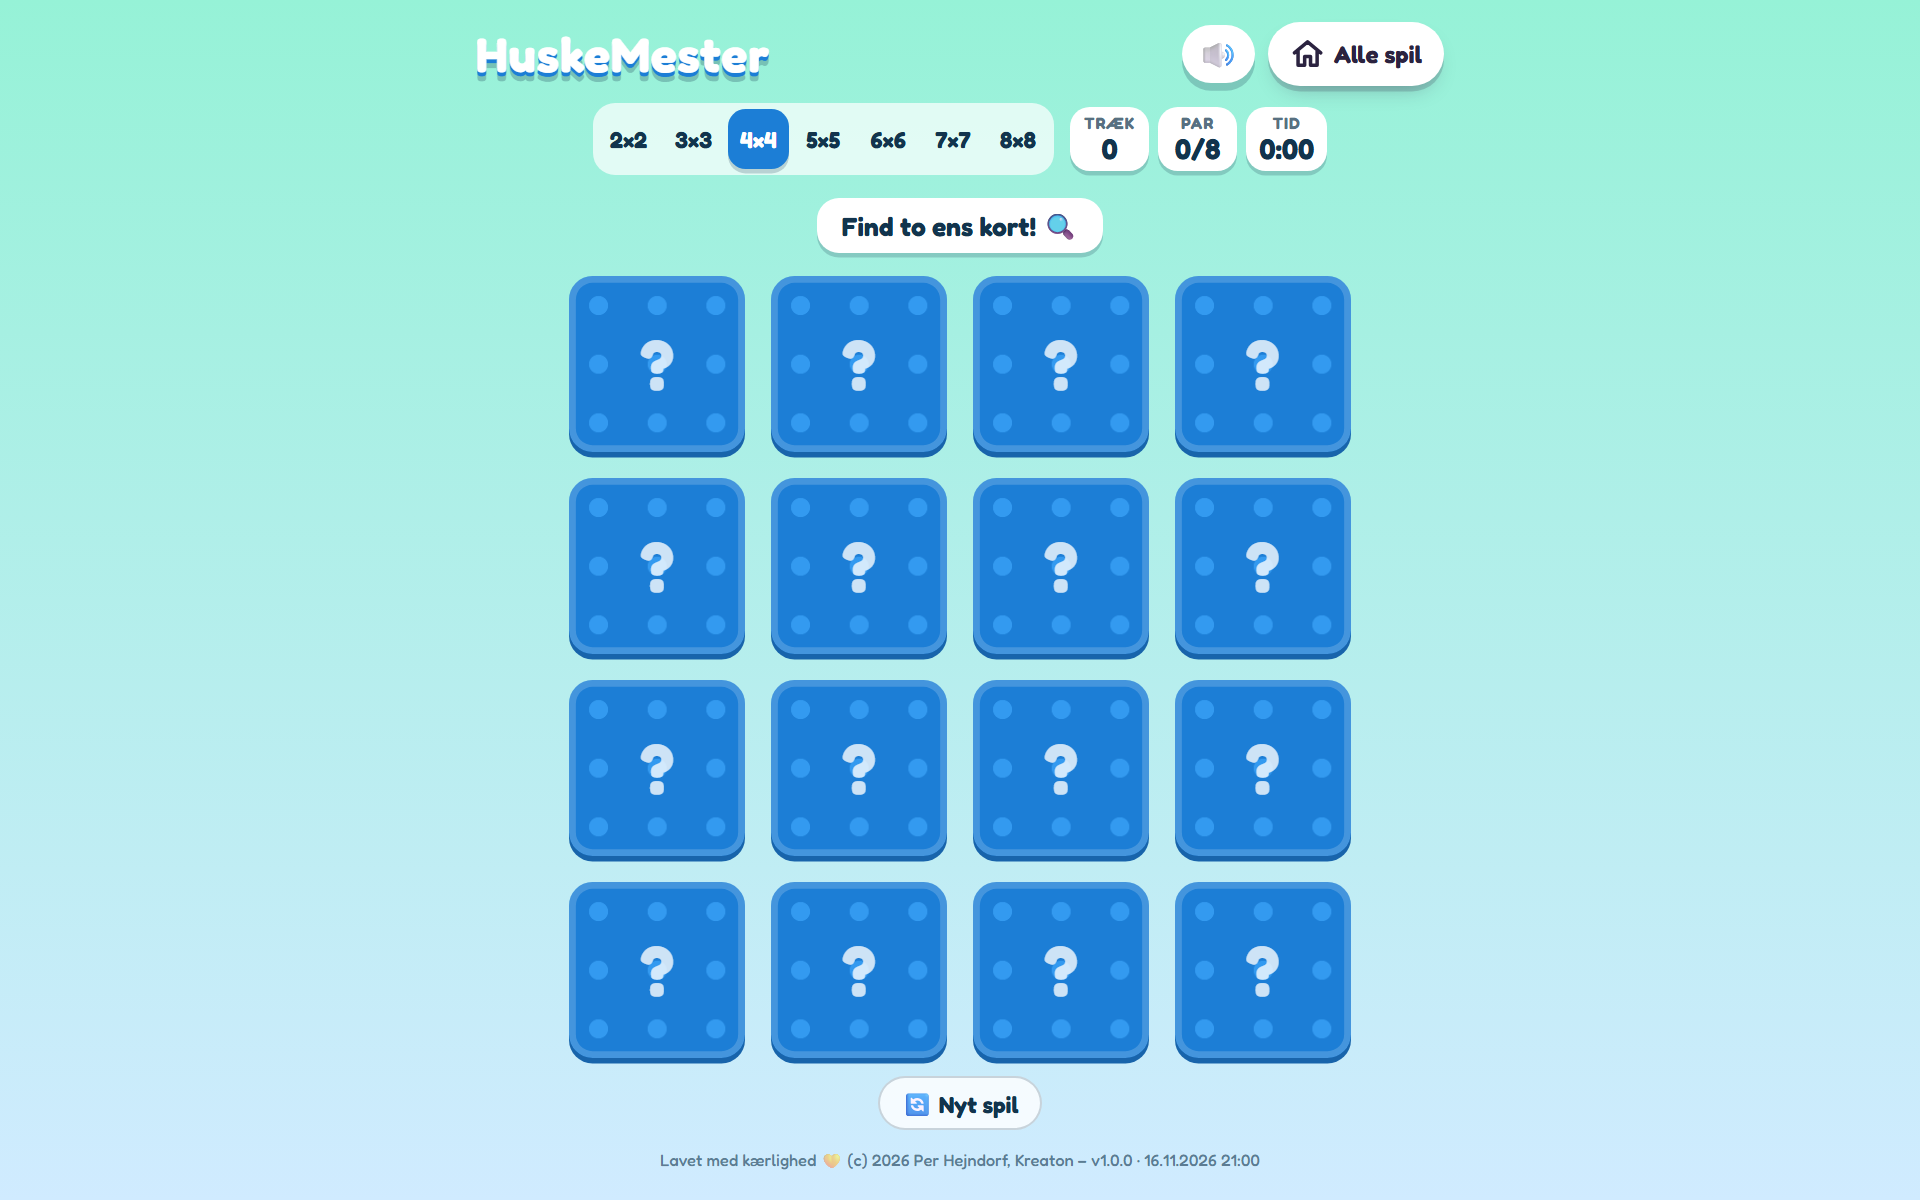
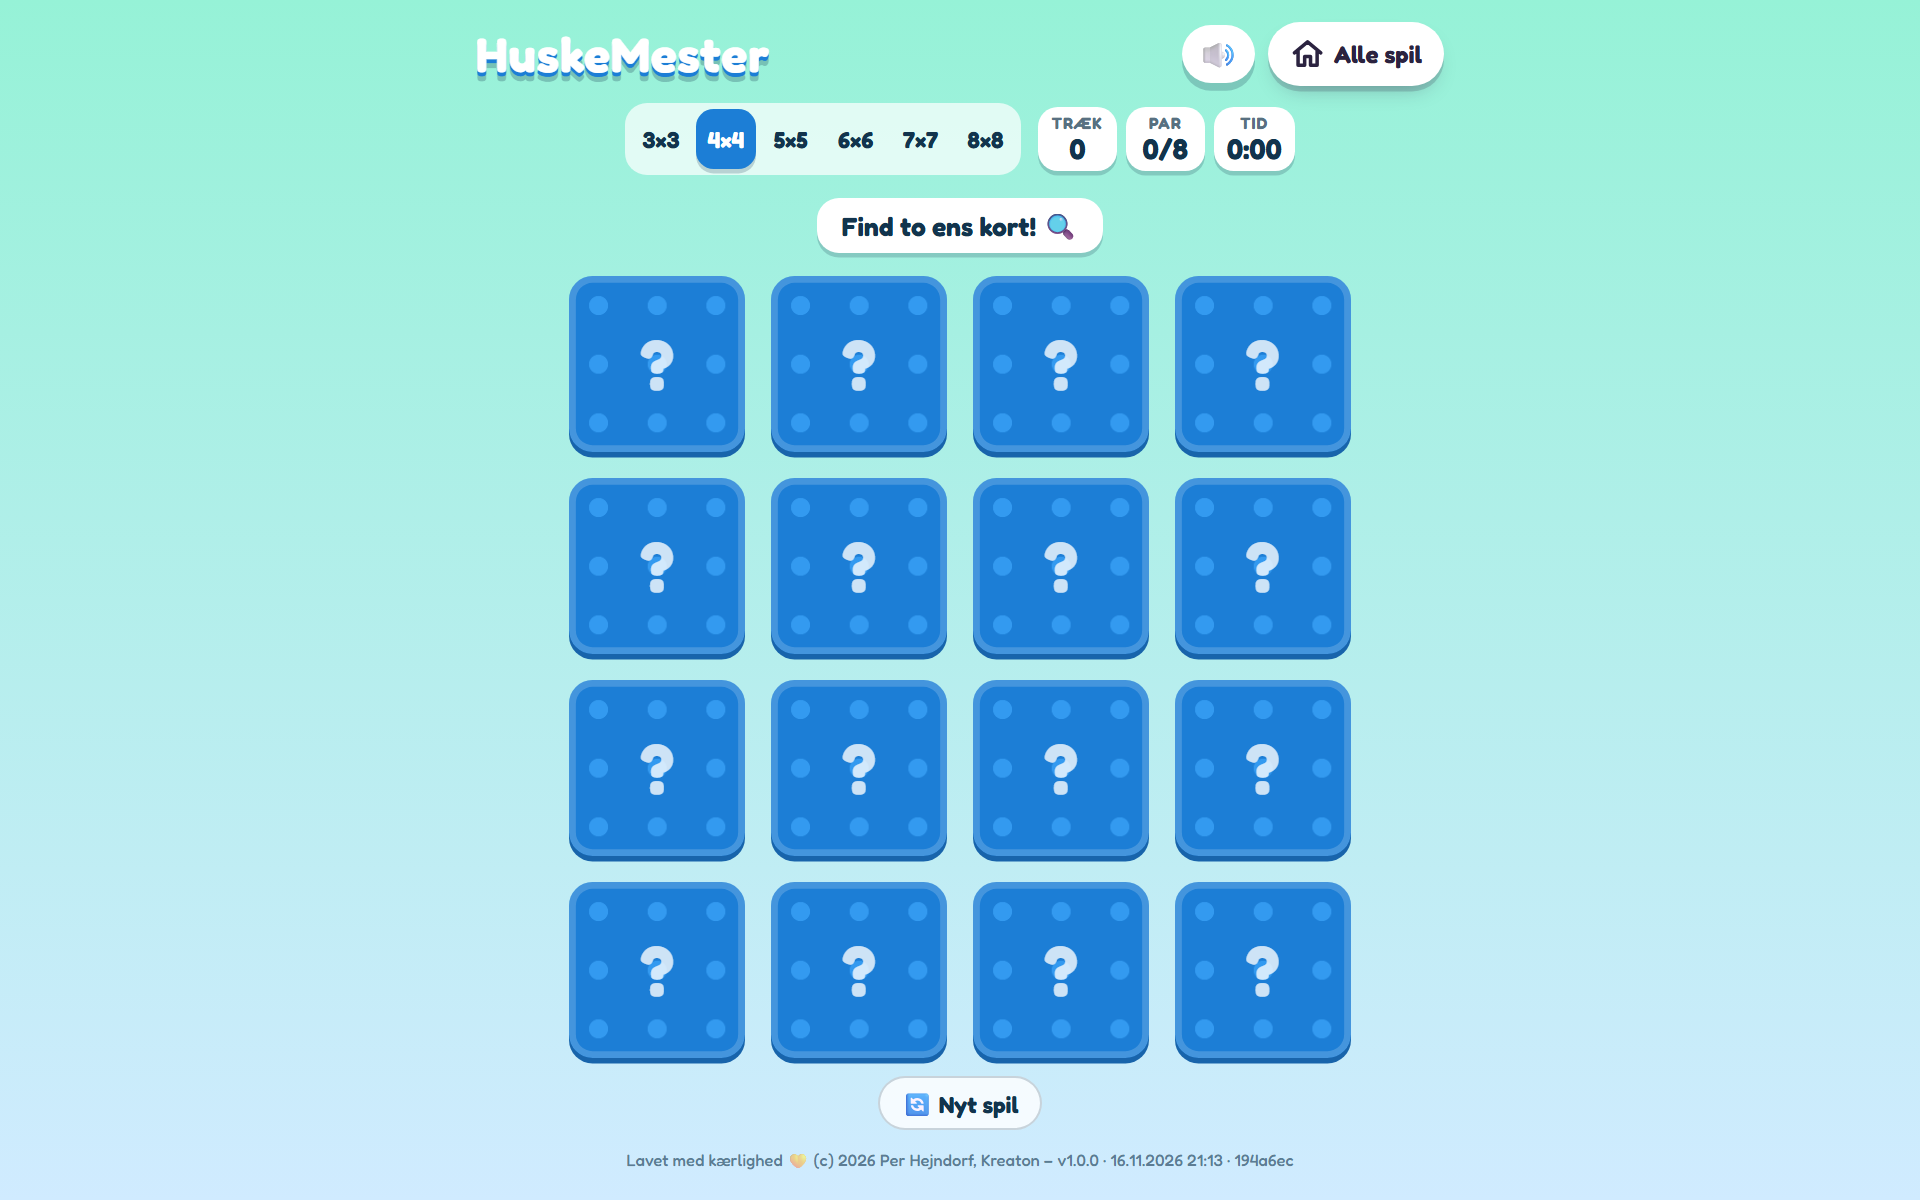
Drop the 2×2 board
The smallest board is now 3×3. A saved 2×2 choice falls back to 4×4.
The README and the banner follow.

Changed region(s): [[0.2812, 0.0617, 0.7188, 0.1542], [0.3438, 0.9558, 0.6875, 0.9867]]

diff --git a/src/HuskeMester/Game/MemoryGame.cs b/src/HuskeMester/Game/MemoryGame.cs
@@ -28,7 +28,7 @@ public enum FlipResult
 /// </summary>
 public sealed class MemoryGame
 {
-    public static readonly int[] Sizes = [2, 3, 4, 5, 6, 7, 8];
+    public static readonly int[] Sizes = [3, 4, 5, 6, 7, 8];
 
     /// <summary>Child-friendly emoji, one code point each. 8×8 needs 32 different ones.</summary>
     public static readonly IReadOnlyList<string> Pool =

diff --git a/README.md b/README.md
@@ -15,7 +15,7 @@ It is a Blazor WebAssembly app (.NET 10) that runs entirely in the browser, with
 
 ## How to play
 
-Pick a board from **2×2** to **8×8** at the top and tap a card to turn it. Tap a second card:
+Pick a board from **3×3** to **8×8** at the top and tap a card to turn it. Tap a second card:
 
 - **The same picture:** the two cards stay up with a green ring, and you hear a ping.
 - **Different pictures:** they get an orange ring, shake, and turn back after about a second.
